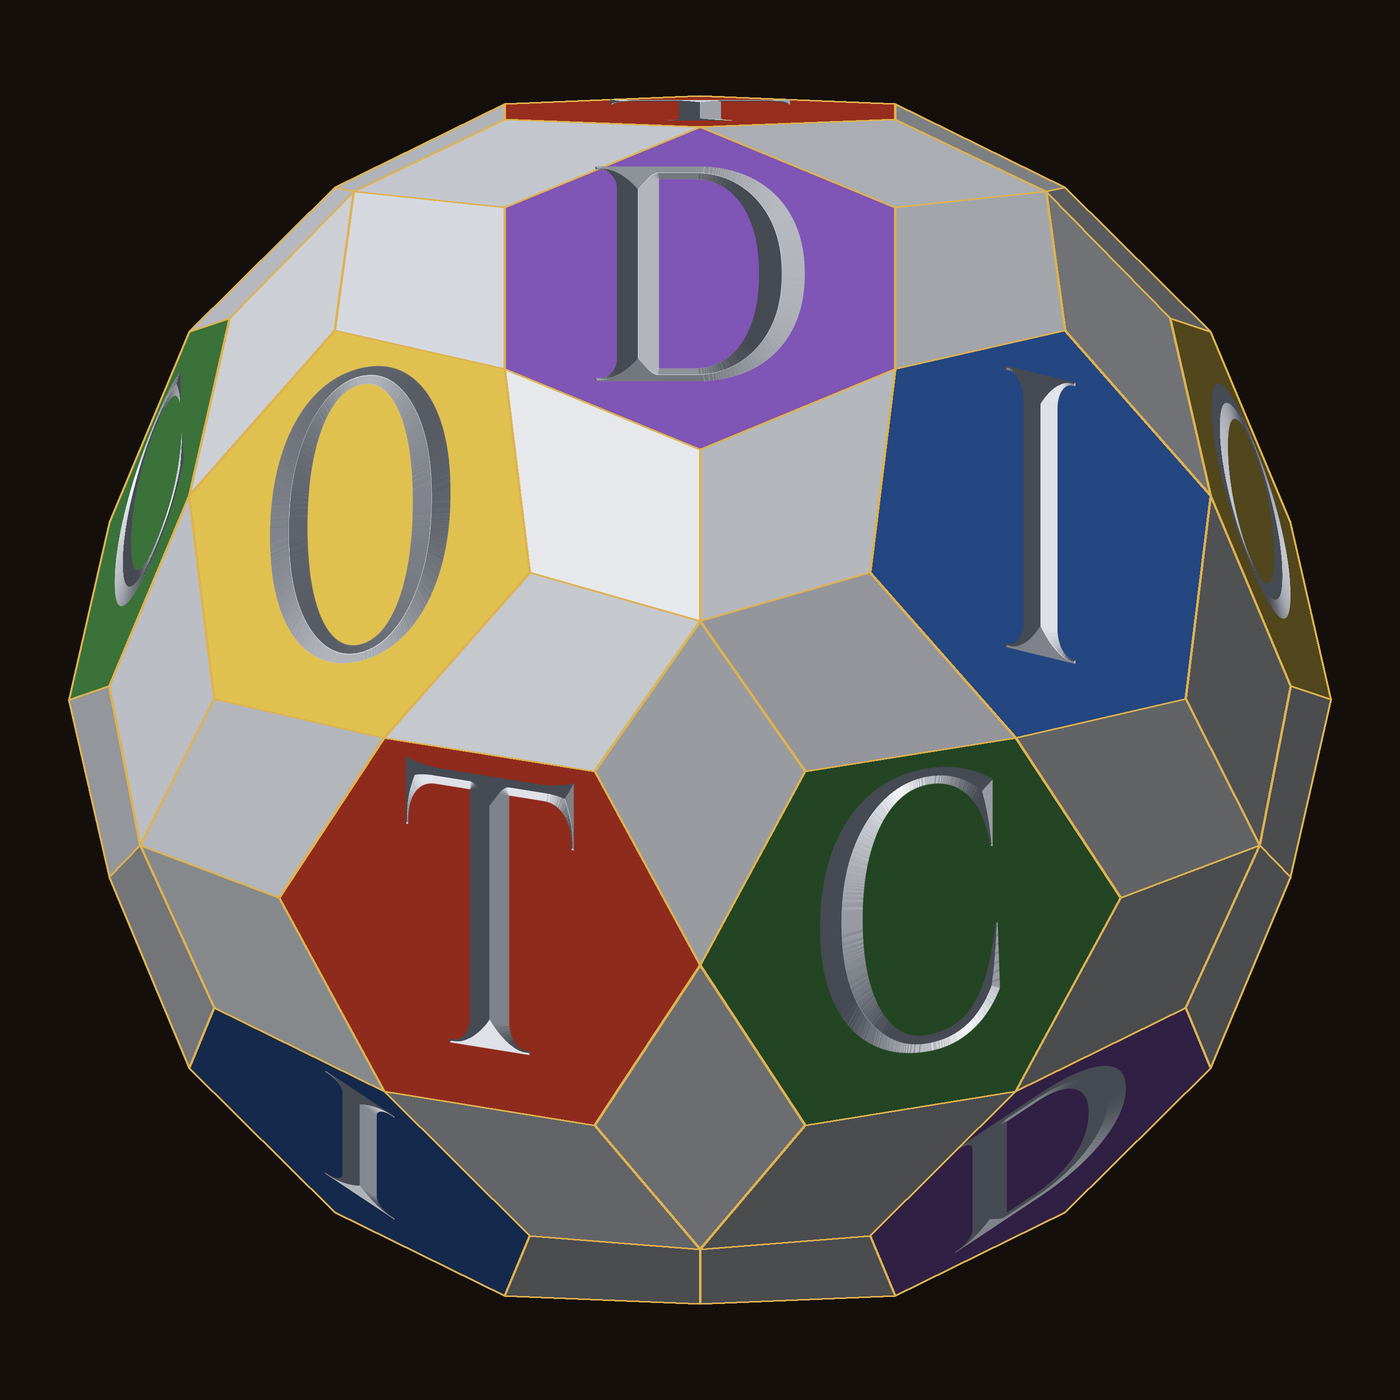
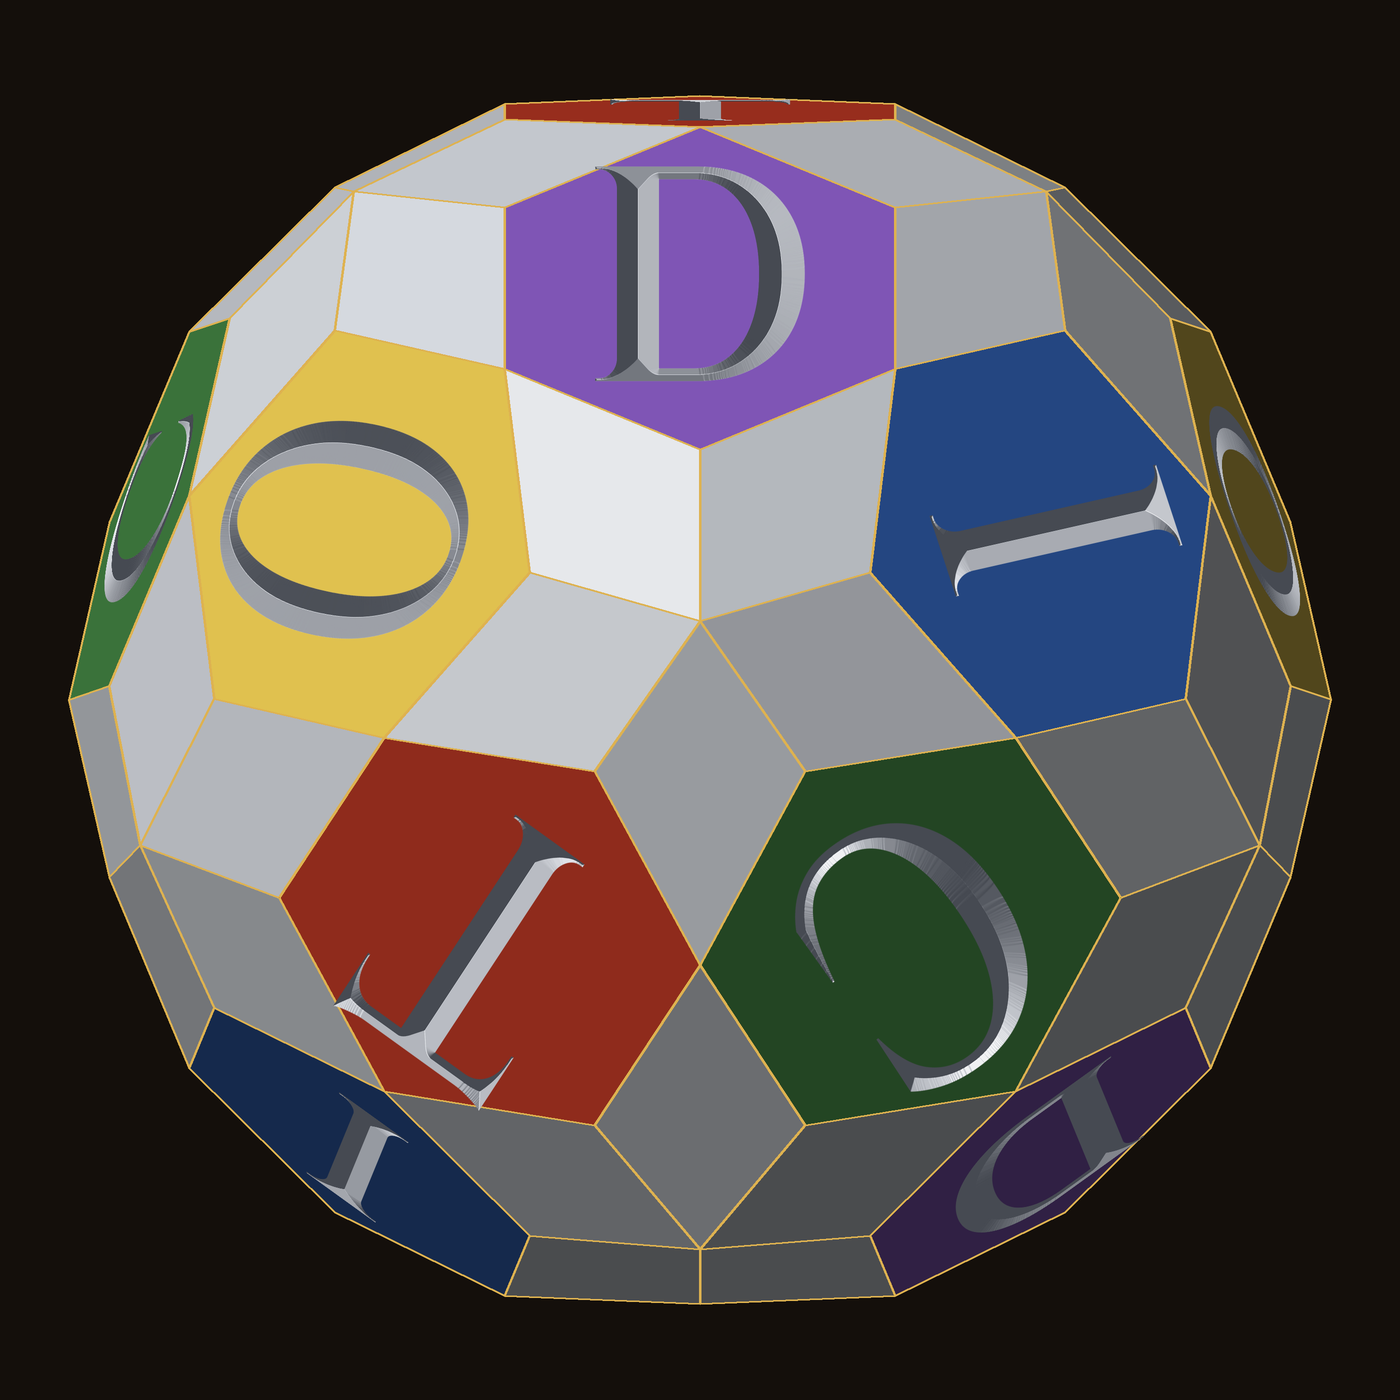
OG letters: set in a circle round the star's centre, tops outward (DICTO)

diff --git a/studies/2026-10-22-dicto-square/og_letters.py b/studies/2026-10-22-dicto-square/og_letters.py
@@ -29,6 +29,7 @@ c0=V[ring[0]].mean(0); spin=math.atan2(c0[0],c0[1])     # turn so the first hexa
 V=V@rot((0,0,1),spin).T
 TILT=rot((1,0,0),-0.12)                                # a slight tilt, as in the figure
 V=V@TILT.T
+AXIS=np.array([0,0,1.0])@TILT.T                         # the five-fold axis through the star's centre
 ring_c={tuple(f):V[f].mean(0) for f in ring}
 order=sorted(ring,key=lambda f:(math.atan2(ring_c[tuple(f)][0],ring_c[tuple(f)][1])+0.6)%(2*math.pi))   # clockwise from the top
 RINGLET={tuple(f):ch for f,ch in zip(order,'DICTO')}
@@ -73,7 +74,9 @@ def render(img,cx,cy,rad,SS=2):
         pts=[P(V[q]) for q in f]; d.polygon(pts,fill=col); d.line(pts+[pts[0]],fill=GOLD,width=2*SS)
         if tuple(f) in LET:
             # facet frame: U to the right on screen, Vv up on screen, both in the facet's plane
-            c=V[f].mean(0); U=np.array([1,0,0])-n*n[0]; U/=np.linalg.norm(U); Vv=np.cross(n,U)
+            # letters set in a circle round the centre of the star (DICTO): each letter's upright points away
+            # from the five-fold axis through the star's centre, tops outward, like letters round a coin
+            c=V[f].mean(0); ax_=AXIS; rad=c-ax_*(c@ax_); Vv=rad-n*(rad@n); Vv/=np.linalg.norm(Vv); U=np.cross(Vv,n)
             r=np.linalg.norm(V[f]-c,axis=1).min()            # inradius-ish
             px=int(2*r*s*1.2); M,gx,gy=carve_tile(LET[tuple(f)],px)
             hx,hy=r*0.8,r*1.22                                   # elongated Trajan forms: tall and narrow

diff --git a/studies/2026-10-22-dicto-square/README.md b/studies/2026-10-22-dicto-square/README.md
@@ -13,3 +13,4 @@ emblem_forms.py -> dicto-emblem-forms.png; STAR=1 -> dicto-emblem-forms-star.png
 og_letters.py -> og-letters.png: the DICTO Ogdoecontahedron along a five-fold axis (as Figure 1(c) of #31; geometry og-geometry.json = papers/ogdoecontahedron/data/hstar-render.json), no colours: stone facets, gold edges; D-I-C-T-O V-cut in platinum leaf into the five hexagons round the centre, clockwise from the top as in the emblem, carved in each facet's own plane so the letters foreshorten.
 Colour version (default, DICTO): each lettered hexagon in its element colour, the kites (stars of five) in platinum; TINT=0 -> og-letters-stone.png, the plain stone version.
 All 20 hexagons lettered and coloured like the DICTO square (DICTO): they fall into the five tetrahedra of the compound of five (centres pairwise at cos −1/3; 10 such tetrahedra, 2 mirror compounds, the first used); each tetrahedron takes the letter of its hexagon in the centre ring, so no neighbours share a letter and the partial hexagons at the rim show fragments. Elongated Trajan forms (0.8 × 1.22 of the hexagon's inradius).
+Letters set in a circle round the centre of the star (DICTO): each letter's upright points away from the five-fold axis through the star's centre, tops outward.
